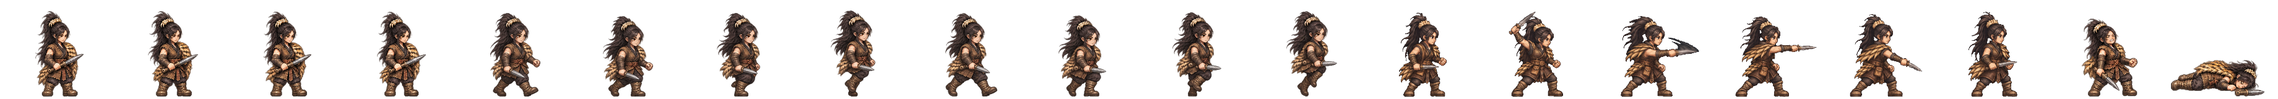
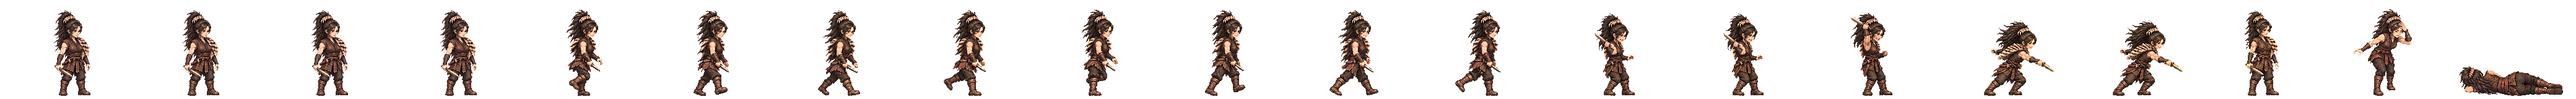
맥 범발 새 전투 띠를 게임에 넣음(서기·걷기·단검 내려베기 여덟 칸·쓰러짐·칼날 엄지로 훑기)
Claude-Session: https://claude.ai/code/session_01TRiuN7s6aDfSnaHxrkctmU

Changed region(s): [[0.4688, 0.125, 1.0, 0.9688], [0.2188, 0.125, 0.4375, 0.9688], [0.0, 0.125, 0.1875, 0.9688]]

diff --git a/src/realm/data/spritePx.ts b/src/realm/data/spritePx.ts
@@ -1,3 +1,3 @@
 /** public/realm/anim-px/manifest.json 의 사본 — tools/sprite-normalize.mjs 가 만든다 (손으로 고치지 말 것). 칸 [가로, 세로] · feet = 발 줄(칸 위에서 y) · bodyPx = 서 있는 몸 키 */
 import { expandManifest } from './sprite-manifest.ts'
-export const SPRITE_PX: Readonly<Record<string, { readonly cell: readonly [number, number]; readonly feet: number; readonly bodyPx: number; readonly kind: 'general' | 'soldier' | 'folk' | 'crowd'; readonly cells: number }>> = expandManifest<{ readonly cell: readonly [number, number]; readonly feet: number; readonly bodyPx: number; readonly kind: 'general' | 'soldier' | 'folk' | 'crowd'; readonly cells: number }>([{"cell":[166,128],"feet":126,"bodyPx":124,"kind":"soldier","cells":20},{"cell":[116,128],"feet":126,"bodyPx":117,"kind":"soldier","cells":20},{"cell":[127,128],"feet":126,"bodyPx":116,"kind":"soldier","cells":20},{"cell":[269,128],"feet":126,"bodyPx":126,"kind":"soldier","cells":20},{"cell":[503,128],"feet":126,"bodyPx":127,"kind":"soldier","cells":20},{"cell":[614,128],"feet":126,"bodyPx":126,"kind":"soldier","cells":20},{"cell":[200,160],"feet":156,"bodyPx":138,"kind":"general","cells":20},{"cell":[208,160],"feet":155,"bodyPx":138,"kind":"general","cells":20},{"cell":[208,160],"feet":154,"bodyPx":138,"kind":"general","cells":20},{"cell":[304,160],"feet":155,"bodyPx":135,"kind":"general","cells":20},{"cell":[224,160],"feet":156,"bodyPx":139,"kind":"general","cells":20},{"cell":[184,160],"feet":156,"bodyPx":138,"kind":"general","cells":20},{"cell":[208,160],"feet":154,"bodyPx":136,"kind":"general","cells":20},{"cell":[240,160],"feet":156,"bodyPx":138,"kind":"general","cells":20},{"cell":[232,160],"feet":156,"bodyPx":138,"kind":"general","cells":20},{"cell":[208,160],"feet":156,"bodyPx":138,"kind":"general","cells":20},{"cell":[192,160],"feet":156,"bodyPx":138,"kind":"general","cells":20},{"cell":[168,160],"feet":156,"bodyPx":124,"kind":"general","cells":20},{"cell":[216,160],"feet":156,"bodyPx":130,"kind":"general","cells":20},{"cell":[200,160],"feet":156,"bodyPx":116,"kind":"general","cells":20},{"cell":[200,160],"feet":156,"bodyPx":135,"kind":"general","cells":20},{"cell":[280,160],"feet":156,"bodyPx":138,"kind":"general","cells":20},{"cell":[232,160],"feet":155,"bodyPx":138,"kind":"general","cells":20},{"cell":[232,160],"feet":156,"bodyPx":134,"kind":"general","cells":20},{"cell":[144,160],"feet":156,"bodyPx":70,"kind":"general","cells":20},{"cell":[208,160],"feet":156,"bodyPx":70,"kind":"general","cells":20},{"cell":[192,160],"feet":156,"bodyPx":70,"kind":"general","cells":20},{"cell":[240,160],"feet":155,"bodyPx":138,"kind":"general","cells":20},{"cell":[160,160],"feet":156,"bodyPx":135,"kind":"general","cells":20},{"cell":[192,160],"feet":156,"bodyPx":128,"kind":"general","cells":20},{"cell":[224,160],"feet":155,"bodyPx":138,"kind":"general","cells":20},{"cell":[232,160],"feet":156,"bodyPx":139,"kind":"general","cells":20},{"cell":[216,160],"feet":156,"bodyPx":138,"kind":"general","cells":20},{"cell":[208,160],"feet":156,"bodyPx":134,"kind":"general","cells":20},{"cell":[176,160],"feet":156,"bodyPx":130,"kind":"general","cells":20},{"cell":[248,160],"feet":156,"bodyPx":138,"kind":"general","cells":20},{"cell":[248,160],"feet":155,"bodyPx":138,"kind":"general","cells":20},{"cell":[192,160],"feet":155,"bodyPx":138,"kind":"general","cells":20},{"cell":[192,160],"feet":156,"bodyPx":124,"kind":"general","cells":20},{"cell":[208,160],"feet":154,"bodyPx":131,"kind":"general","cells":20},{"cell":[256,160],"feet":156,"bodyPx":138,"kind":"general","cells":20},{"cell":[232,160],"feet":156,"bodyPx":73,"kind":"general","cells":20},{"cell":[256,160],"feet":155,"bodyPx":138,"kind":"general","cells":20},{"cell":[264,160],"feet":156,"bodyPx":138,"kind":"general","cells":20},{"cell":[224,160],"feet":156,"bodyPx":138,"kind":"general","cells":20},{"cell":[224,160],"feet":156,"bodyPx":128,"kind":"general","cells":20},{"cell":[176,160],"feet":156,"bodyPx":129,"kind":"general","cells":20},{"cell":[208,160],"feet":154,"bodyPx":139,"kind":"general","cells":20},{"cell":[208,160],"feet":156,"bodyPx":132,"kind":"general","cells":20},{"cell":[216,160],"feet":155,"bodyPx":138,"kind":"general","cells":20},{"cell":[184,160],"feet":156,"bodyPx":122,"kind":"general","cells":20},{"cell":[176,160],"feet":156,"bodyPx":138,"kind":"general","cells":20},{"cell":[280,160],"feet":155,"bodyPx":133,"kind":"general","cells":20},{"cell":[176,160],"feet":156,"bodyPx":70,"kind":"general","cells":20},{"cell":[186,128],"feet":126,"bodyPx":127,"kind":"soldier","cells":20},{"cell":[298,128],"feet":126,"bodyPx":126,"kind":"soldier","cells":20},{"cell":[82,128],"feet":126,"bodyPx":114,"kind":"folk","cells":8},{"cell":[134,128],"feet":126,"bodyPx":119,"kind":"soldier","cells":20},{"cell":[380,128],"feet":126,"bodyPx":124,"kind":"soldier","cells":20},{"cell":[114,128],"feet":126,"bodyPx":115,"kind":"soldier","cells":20},{"cell":[122,128],"feet":126,"bodyPx":114,"kind":"soldier","cells":20},{"cell":[254,128],"feet":126,"bodyPx":128,"kind":"soldier","cells":20},{"cell":[438,128],"feet":126,"bodyPx":126,"kind":"soldier","cells":20},{"cell":[88,128],"feet":126,"bodyPx":113,"kind":"folk","cells":8},{"cell":[100,128],"feet":126,"bodyPx":115,"kind":"folk","cells":8},{"cell":[108,128],"feet":126,"bodyPx":115,"kind":"folk","cells":8},{"cell":[63,128],"feet":126,"bodyPx":113,"kind":"folk","cells":8},{"cell":[69,96],"feet":96,"bodyPx":96,"kind":"crowd","cells":1},{"cell":[54,96],"feet":96,"bodyPx":96,"kind":"crowd","cells":1},{"cell":[47,96],"feet":96,"bodyPx":96,"kind":"crowd","cells":1},{"cell":[49,96],"feet":96,"bodyPx":96,"kind":"crowd","cells":1},{"cell":[57,96],"feet":96,"bodyPx":96,"kind":"crowd","cells":1},{"cell":[55,96],"feet":96,"bodyPx":96,"kind":"crowd","cells":1},{"cell":[45,96],"feet":96,"bodyPx":96,"kind":"crowd","cells":1},{"cell":[53,96],"feet":96,"bodyPx":96,"kind":"crowd","cells":1},{"cell":[64,96],"feet":96,"bodyPx":96,"kind":"crowd","cells":1},{"cell":[184,160],"feet":156,"bodyPx":124,"kind":"general","cells":20},{"cell":[184,160],"feet":156,"bodyPx":134,"kind":"general","cells":20},{"cell":[224,160],"feet":156,"bodyPx":133,"kind":"general","cells":20},{"cell":[192,160],"feet":156,"bodyPx":135,"kind":"general","cells":20},{"cell":[184,160],"feet":156,"bodyPx":137,"kind":"general","cells":20},{"cell":[216,160],"feet":156,"bodyPx":134,"kind":"general","cells":20},{"cell":[216,160],"feet":156,"bodyPx":132,"kind":"general","cells":20},{"cell":[288,160],"feet":156,"bodyPx":138,"kind":"general","cells":20},{"cell":[192,160],"feet":156,"bodyPx":118,"kind":"general","cells":20},{"cell":[208,160],"feet":154,"bodyPx":134,"kind":"general","cells":20},{"cell":[192,160],"feet":157,"bodyPx":139,"kind":"general","cells":20},{"cell":[184,160],"feet":156,"bodyPx":128,"kind":"general","cells":20},{"cell":[240,160],"feet":156,"bodyPx":128,"kind":"general","cells":20},{"cell":[184,160],"feet":156,"bodyPx":132,"kind":"general","cells":20},{"cell":[208,160],"feet":156,"bodyPx":123,"kind":"general","cells":20},{"cell":[208,160],"feet":154,"bodyPx":137,"kind":"general","cells":20},{"cell":[176,160],"feet":156,"bodyPx":116,"kind":"general","cells":20},{"cell":[272,160],"feet":156,"bodyPx":138,"kind":"general","cells":20},{"cell":[176,160],"feet":156,"bodyPx":122,"kind":"general","cells":20},{"cell":[232,160],"feet":156,"bodyPx":127,"kind":"general","cells":20},{"cell":[168,160],"feet":156,"bodyPx":138,"kind":"general","cells":20},{"cell":[176,160],"feet":156,"bodyPx":137,"kind":"general","cells":20},{"cell":[184,160],"feet":156,"bodyPx":133,"kind":"general","cells":20}],[["axe",0],["bandit-chief",1],["bandit-club",2],["boat",3],["bow",4],["crossbow",5],["gen-adogan",6],["gen-alpyeong",7],["gen-ara",8],["gen-areum",8],["gen-aryeong",9],["gen-bakdal",6],["gen-baram",10],["gen-bdanbi",11],["gen-beom",12],["gen-beombal",11],["gen-beomi",13],["gen-bira",14],["gen-biryu",15],["gen-budeul",8],["gen-byeol",16],["gen-daemusin",17],["gen-daeso",18],["gen-dallae2",11],["gen-dalli",11],["gen-damul",19],["gen-danbi",15],["gen-dangung",16],["gen-darae",20],["gen-dokmudeom",7],["gen-duman",21],["gen-eomni",22],["gen-eureum",23],["gen-g-bow",24],["gen-g-spear",25],["gen-g-sword",26],["gen-gaennae",6],["gen-gamsil",27],["gen-gaon",28],["gen-geota",15],["gen-geumbawi",11],["gen-geumha",29],["gen-goeun",15],["gen-gom",30],["gen-gomok",15],["gen-gureum",27],["gen-guryema",16],["gen-gwaeyu",14],["gen-haebi",8],["gen-haedal",6],["gen-haesol",31],["gen-halla",7],["gen-heo",8],["gen-hneoul",11],["gen-hogong",32],["gen-hojin",15],["gen-horselord",33],["gen-hwalmi",34],["gen-hyeokgeose",16],["gen-hyeopbo",6],["gen-irang",15],["gen-jibaekho",35],["gen-jinha",36],["gen-jita",37],["gen-jumong",38],["gen-keundol",7],["gen-maehwa",39],["gen-maenun",16],["gen-malgalgi",40],["gen-mari",13],["gen-maro",35],["gen-maryeo",15],["gen-mdallae",31],["gen-mir",6],["gen-mount",41],["gen-mulbeom",42],["gen-mulsae",32],["gen-musoe",32],["gen-noeul",8],["gen-nuri",43],["gen-ocheongan",44],["gen-odi",8],["gen-odogan",6],["gen-ogan",16],["gen-oi",45],["gen-olddaeso",23],["gen-onjo",46],["gen-pidogan",15],["gen-sagong",47],["gen-sdallae",6],["gen-sincheongan",32],["gen-singwigan",32],["gen-sinneoul",8],["gen-sobeol",22],["gen-soebi",6],["gen-soebo",48],["gen-soenun",35],["gen-sogeumbi",49],["gen-songbi",44],["gen-songyang",50],["gen-sori",51],["gen-soseono",52],["gen-suro",16],["gen-tahae",6],["gen-tneoul",8],["gen-w-bow",24],["gen-w-spear",53],["gen-waechief",15],["gen-wan",32],["gen-yeodogan",15],["gen-yucheongan",15],["gen-yusugan",35],["horse",54],["marine",55],["migrant",56],["militia",57],["pike",58],["pirate-captain",59],["pirate-sword",60],["shield",61],["spear",62],["villager-builder",63],["villager-farmer",64],["villager-porter",65],["villager-woman",66],["crowd-b1",67],["crowd-b2",68],["crowd-b3",69],["crowd-b4",70],["crowd-b5",71],["crowd-b6",72],["crowd-f1",67],["crowd-f2",72],["crowd-f3",73],["crowd-f4",74],["crowd-f5",67],["crowd-f6",75],["gen-dalbit",15],["gen-base-g-07-drunk-warrior",16],["gen-base-g-40-anya-adan",15],["gen-base-w-13-young-archer",8],["gen-base-g-03-sea-trader",13],["gen-base-w-10-pirate-captain",47],["gen-base-w-64-miri-dallae",47],["gen-base-g-41-goja-bau",13],["gen-base-g-42-dokro-garam",43],["gen-base-g-09-farmer-conscript",32],["gen-base-w-02-goguryeo-lady",32],["gen-base-w-17-mahan-pearl-diver",8],["gen-base-g-17-saro-isageum",48],["gen-base-g-18-daegaya-king",76],["gen-base-g-35-dabeol-dalgu",15],["gen-base-g-19-sabeol-veteran",32],["gen-base-w-23-usisan-whale-queen",8],["gen-base-g-36-gammun-gamdol",44],["gen-base-g-20-samul-sea-lord",40],["gen-base-g-37-eumjeup-jeup",11],["gen-base-g-38-chopal-palmae",16],["gen-base-w-75-daegaya-soemoe",16],["gen-base-g-45-dabeol-deulgae",11],["gen-base-g-04-jinhan-giant",15],["gen-base-g-08-veteran",15],["gen-base-w-18-jinhan-salt-widow",8],["gen-base-w-12-court-dancer",77],["gen-base-w-83-gyeonji-beodeul",78],["gen-base-w-05-baekje-queen",79],["gen-base-w-21-baekje-court-dancer",11],["gen-base-g-01-master-smith",80],["gen-base-g-93-jomun-solgae",34],["gen-base-g-57-bihwa-neup",13],["gen-base-w-72-eumjeup-beol",8],["gen-base-w-102-garak-dana",47],["gen-base-g-68-baekje-onnuri",15],["gen-base-w-27-mokji-jinha",6],["gen-base-g-22-ungcheon-gomnae",6],["gen-base-g-23-sangdang-soedal",15],["gen-base-g-24-wansan-onsan",6],["gen-base-g-25-balla-keunmoe",32],["gen-base-g-61-heomcheuk-bawi",32],["gen-base-g-88-wander-soeul",44],["gen-base-w-14-feast-spy",6],["gen-base-g-12-silla-youth",81],["gen-base-w-08-mahan-warrior",8],["gen-base-g-62-beonye-hanul",13],["gen-base-g-63-heomcheuk-beogeum",15],["gen-base-g-84-wander-seoneul",15],["gen-base-w-50-siljik-mulga",32],["gen-base-g-46-uga-nureongso",32],["gen-base-w-80-usan-gangchi",13],["gen-base-g-47-guga-sanyanggae",32],["gen-base-w-76-gampyeong-baetsagong",8],["gen-base-g-05-mahan-chieftain",82],["gen-base-g-58-usan-uhae",15],["gen-base-g-27-maek-maekdol",15],["gen-base-w-53-hwanna-gabi",47],["gen-base-w-29-golpo-janmul",35],["gen-base-g-53-baekje-haeru",6],["gen-base-w-71-yeonna-neoul",13],["gen-base-w-79-yangmaek-solmae",32],["gen-base-w-34-chopal-deulme",8],["gen-base-g-44-maga-malgup",83],["gen-base-w-31-dabeol-dalbit",47],["gen-base-g-51-biryuna-mulgyeol",44],["gen-base-g-48-gwanna-musoe",15],["gen-base-g-32-uga-sodu",14],["gen-base-g-49-goguryeo-sona",84],["gen-base-g-30-gwanna-soemoe",44],["gen-base-g-52-tamna-oreum",11],["gen-base-g-29-yeonna-myeongsol",38],["gen-base-w-56-dongokjeo-sogeum",85],["gen-base-g-54-mokji-mahan",14],["gen-base-g-33-jeoga-metdol",16],["gen-base-w-36-baekje-maena",8],["gen-base-w-38-sangdang-bulmae",6],["gen-base-w-39-gosaburi-galmae",86],["gen-base-w-40-mujin-munui",48],["gen-base-w-41-hwanna-beodeul",87],["gen-base-w-43-uga-nuri",40],["gen-base-w-45-tamna-oreumbi",11],["gen-base-g-60-golbeol-golgae",11],["gen-base-g-61-apdok-ap",32],["gen-base-g-62-gammun-gamnamu",6],["gen-base-g-63-chopal-yeoul",35],["gen-base-g-64-michuhol-sogeumkkun",13],["gen-base-g-65-sangdang-soemangchi",44],["gen-base-g-66-geonma-malbalgup",88],["gen-base-g-67-gosaburi-buri",89],["gen-base-g-68-mujin-bitgoeul",11],["gen-base-g-69-goryong-yong",44],["gen-base-g-70-siljik-pado",13],["gen-base-w-81-byeokjin-byeolbit",14],["gen-base-w-46-geonma-maru",35],["gen-base-w-48-mujin-mudeung",13],["gen-base-g-26-gampyeong-gaetbeol",14],["gen-base-g-60-eupcha-hangyeol",90],["gen-base-g-15-shaman-man",32],["gen-base-g-85-wander-ure",35],["gen-base-g-43-hwanna-amnok",15],["gen-base-g-50-bullae-gwaha",79],["gen-base-g-55-saro-bakdal",15],["gen-base-g-56-haseulla-gwahama",6],["gen-base-w-06-buyeo-huntress",91],["gen-base-w-22-dongye-tiger-huntress",8],["gen-base-w-25-bihwa-priestess",32],["gen-base-w-24-apdok-queen",11],["gen-base-w-61-iseo-sinae",15],["gen-base-w-26-iseo-tomboy-general",8],["gen-base-g-59-yangmaek-maekson",92],["gen-aw1-haebi",44],["gen-aw1-soseono",93],["gen-aw1-gamsil",11],["gen-aw1-mir",51],["gen-aw1-dangung",6],["gen-aw1-ara",44],["gen-aw1-jumong",94],["gen-aw1-onjo",95],["gen-aw1-base-w-83-gyeonji-beodeul",16],["gen-aw1-heo",43],["gen-aw1-base-g-38-chopal-palmae",6],["gen-aw1-base-w-25-bihwa-priestess",77],["gen-aw1-sori",96],["gen-aw1-gomok",6],["gen-aw1-irang",16],["gen-aw1-budeul",96],["gen-aw1-gom",13],["gen-aw1-sdallae",6],["gen-aw1-base-w-13-young-archer",6],["gen-aw1-base-w-36-baekje-maena",97],["gen-aw1-base-g-09-farmer-conscript",43],["gen-aw1-base-w-02-goguryeo-lady",98],["gen-aw1-haedal",11],["gen-aw1-hogong",6],["gen-aw1-maehwa",51],["gen-aw1-base-w-06-buyeo-huntress",14],["gen-aw1-base-w-08-mahan-warrior",44],["gen-aw1-base-w-29-golpo-janmul",44],["gen-aw1-base-w-31-dabeol-dalbit",16],["gen-aw1-base-w-38-sangdang-bulmae",96],["gen-aw1-bira",32],["gen-aw1-base-w-53-hwanna-gabi",96],["gen-aw1-base-w-56-dongokjeo-sogeum",51],["gen-aw1-base-w-72-eumjeup-beol",16],["gen-aw1-bdanbi",96],["gen-aw1-beom",11],["gen-aw1-beombal",11],["gen-aw1-byeol",16],["gen-aw1-dalli",51],["gen-aw1-malgalgi",35],["gen-aw1-sincheongan",32]])
+export const SPRITE_PX: Readonly<Record<string, { readonly cell: readonly [number, number]; readonly feet: number; readonly bodyPx: number; readonly kind: 'general' | 'soldier' | 'folk' | 'crowd'; readonly cells: number }>> = expandManifest<{ readonly cell: readonly [number, number]; readonly feet: number; readonly bodyPx: number; readonly kind: 'general' | 'soldier' | 'folk' | 'crowd'; readonly cells: number }>([{"cell":[166,128],"feet":126,"bodyPx":124,"kind":"soldier","cells":20},{"cell":[116,128],"feet":126,"bodyPx":117,"kind":"soldier","cells":20},{"cell":[127,128],"feet":126,"bodyPx":116,"kind":"soldier","cells":20},{"cell":[269,128],"feet":126,"bodyPx":126,"kind":"soldier","cells":20},{"cell":[503,128],"feet":126,"bodyPx":127,"kind":"soldier","cells":20},{"cell":[614,128],"feet":126,"bodyPx":126,"kind":"soldier","cells":20},{"cell":[200,160],"feet":156,"bodyPx":138,"kind":"general","cells":20},{"cell":[208,160],"feet":155,"bodyPx":138,"kind":"general","cells":20},{"cell":[208,160],"feet":154,"bodyPx":138,"kind":"general","cells":20},{"cell":[304,160],"feet":155,"bodyPx":135,"kind":"general","cells":20},{"cell":[224,160],"feet":156,"bodyPx":139,"kind":"general","cells":20},{"cell":[184,160],"feet":156,"bodyPx":138,"kind":"general","cells":20},{"cell":[208,160],"feet":154,"bodyPx":136,"kind":"general","cells":20},{"cell":[240,160],"feet":156,"bodyPx":138,"kind":"general","cells":20},{"cell":[232,160],"feet":156,"bodyPx":138,"kind":"general","cells":20},{"cell":[208,160],"feet":156,"bodyPx":138,"kind":"general","cells":20},{"cell":[192,160],"feet":156,"bodyPx":138,"kind":"general","cells":20},{"cell":[168,160],"feet":156,"bodyPx":124,"kind":"general","cells":20},{"cell":[216,160],"feet":156,"bodyPx":130,"kind":"general","cells":20},{"cell":[200,160],"feet":156,"bodyPx":116,"kind":"general","cells":20},{"cell":[200,160],"feet":156,"bodyPx":135,"kind":"general","cells":20},{"cell":[280,160],"feet":156,"bodyPx":138,"kind":"general","cells":20},{"cell":[232,160],"feet":155,"bodyPx":138,"kind":"general","cells":20},{"cell":[232,160],"feet":156,"bodyPx":134,"kind":"general","cells":20},{"cell":[144,160],"feet":156,"bodyPx":70,"kind":"general","cells":20},{"cell":[208,160],"feet":156,"bodyPx":70,"kind":"general","cells":20},{"cell":[192,160],"feet":156,"bodyPx":70,"kind":"general","cells":20},{"cell":[240,160],"feet":155,"bodyPx":138,"kind":"general","cells":20},{"cell":[160,160],"feet":156,"bodyPx":135,"kind":"general","cells":20},{"cell":[192,160],"feet":156,"bodyPx":128,"kind":"general","cells":20},{"cell":[224,160],"feet":155,"bodyPx":138,"kind":"general","cells":20},{"cell":[232,160],"feet":156,"bodyPx":139,"kind":"general","cells":20},{"cell":[216,160],"feet":156,"bodyPx":138,"kind":"general","cells":20},{"cell":[208,160],"feet":156,"bodyPx":134,"kind":"general","cells":20},{"cell":[176,160],"feet":156,"bodyPx":130,"kind":"general","cells":20},{"cell":[248,160],"feet":156,"bodyPx":138,"kind":"general","cells":20},{"cell":[248,160],"feet":155,"bodyPx":138,"kind":"general","cells":20},{"cell":[192,160],"feet":155,"bodyPx":138,"kind":"general","cells":20},{"cell":[192,160],"feet":156,"bodyPx":124,"kind":"general","cells":20},{"cell":[208,160],"feet":154,"bodyPx":131,"kind":"general","cells":20},{"cell":[256,160],"feet":156,"bodyPx":138,"kind":"general","cells":20},{"cell":[232,160],"feet":156,"bodyPx":73,"kind":"general","cells":20},{"cell":[256,160],"feet":155,"bodyPx":138,"kind":"general","cells":20},{"cell":[264,160],"feet":156,"bodyPx":138,"kind":"general","cells":20},{"cell":[224,160],"feet":156,"bodyPx":138,"kind":"general","cells":20},{"cell":[224,160],"feet":156,"bodyPx":128,"kind":"general","cells":20},{"cell":[176,160],"feet":156,"bodyPx":129,"kind":"general","cells":20},{"cell":[208,160],"feet":154,"bodyPx":139,"kind":"general","cells":20},{"cell":[208,160],"feet":156,"bodyPx":132,"kind":"general","cells":20},{"cell":[216,160],"feet":155,"bodyPx":138,"kind":"general","cells":20},{"cell":[184,160],"feet":156,"bodyPx":122,"kind":"general","cells":20},{"cell":[176,160],"feet":156,"bodyPx":138,"kind":"general","cells":20},{"cell":[280,160],"feet":155,"bodyPx":133,"kind":"general","cells":20},{"cell":[176,160],"feet":156,"bodyPx":70,"kind":"general","cells":20},{"cell":[186,128],"feet":126,"bodyPx":127,"kind":"soldier","cells":20},{"cell":[298,128],"feet":126,"bodyPx":126,"kind":"soldier","cells":20},{"cell":[82,128],"feet":126,"bodyPx":114,"kind":"folk","cells":8},{"cell":[134,128],"feet":126,"bodyPx":119,"kind":"soldier","cells":20},{"cell":[380,128],"feet":126,"bodyPx":124,"kind":"soldier","cells":20},{"cell":[114,128],"feet":126,"bodyPx":115,"kind":"soldier","cells":20},{"cell":[122,128],"feet":126,"bodyPx":114,"kind":"soldier","cells":20},{"cell":[254,128],"feet":126,"bodyPx":128,"kind":"soldier","cells":20},{"cell":[438,128],"feet":126,"bodyPx":126,"kind":"soldier","cells":20},{"cell":[88,128],"feet":126,"bodyPx":113,"kind":"folk","cells":8},{"cell":[100,128],"feet":126,"bodyPx":115,"kind":"folk","cells":8},{"cell":[108,128],"feet":126,"bodyPx":115,"kind":"folk","cells":8},{"cell":[63,128],"feet":126,"bodyPx":113,"kind":"folk","cells":8},{"cell":[69,96],"feet":96,"bodyPx":96,"kind":"crowd","cells":1},{"cell":[54,96],"feet":96,"bodyPx":96,"kind":"crowd","cells":1},{"cell":[47,96],"feet":96,"bodyPx":96,"kind":"crowd","cells":1},{"cell":[49,96],"feet":96,"bodyPx":96,"kind":"crowd","cells":1},{"cell":[57,96],"feet":96,"bodyPx":96,"kind":"crowd","cells":1},{"cell":[55,96],"feet":96,"bodyPx":96,"kind":"crowd","cells":1},{"cell":[45,96],"feet":96,"bodyPx":96,"kind":"crowd","cells":1},{"cell":[53,96],"feet":96,"bodyPx":96,"kind":"crowd","cells":1},{"cell":[64,96],"feet":96,"bodyPx":96,"kind":"crowd","cells":1},{"cell":[184,160],"feet":156,"bodyPx":124,"kind":"general","cells":20},{"cell":[184,160],"feet":156,"bodyPx":134,"kind":"general","cells":20},{"cell":[224,160],"feet":156,"bodyPx":133,"kind":"general","cells":20},{"cell":[192,160],"feet":156,"bodyPx":135,"kind":"general","cells":20},{"cell":[184,160],"feet":156,"bodyPx":137,"kind":"general","cells":20},{"cell":[216,160],"feet":156,"bodyPx":134,"kind":"general","cells":20},{"cell":[216,160],"feet":156,"bodyPx":132,"kind":"general","cells":20},{"cell":[288,160],"feet":156,"bodyPx":138,"kind":"general","cells":20},{"cell":[192,160],"feet":156,"bodyPx":118,"kind":"general","cells":20},{"cell":[208,160],"feet":154,"bodyPx":134,"kind":"general","cells":20},{"cell":[192,160],"feet":157,"bodyPx":139,"kind":"general","cells":20},{"cell":[184,160],"feet":156,"bodyPx":128,"kind":"general","cells":20},{"cell":[240,160],"feet":156,"bodyPx":128,"kind":"general","cells":20},{"cell":[184,160],"feet":156,"bodyPx":132,"kind":"general","cells":20},{"cell":[208,160],"feet":156,"bodyPx":123,"kind":"general","cells":20},{"cell":[208,160],"feet":154,"bodyPx":137,"kind":"general","cells":20},{"cell":[176,160],"feet":156,"bodyPx":116,"kind":"general","cells":20},{"cell":[272,160],"feet":156,"bodyPx":138,"kind":"general","cells":20},{"cell":[176,160],"feet":156,"bodyPx":122,"kind":"general","cells":20},{"cell":[232,160],"feet":156,"bodyPx":127,"kind":"general","cells":20},{"cell":[168,160],"feet":156,"bodyPx":138,"kind":"general","cells":20},{"cell":[176,160],"feet":156,"bodyPx":137,"kind":"general","cells":20},{"cell":[184,160],"feet":156,"bodyPx":133,"kind":"general","cells":20}],[["axe",0],["bandit-chief",1],["bandit-club",2],["boat",3],["bow",4],["crossbow",5],["gen-adogan",6],["gen-alpyeong",7],["gen-ara",8],["gen-areum",8],["gen-aryeong",9],["gen-bakdal",6],["gen-baram",10],["gen-bdanbi",11],["gen-beom",12],["gen-beombal",8],["gen-beomi",13],["gen-bira",14],["gen-biryu",15],["gen-budeul",8],["gen-byeol",16],["gen-daemusin",17],["gen-daeso",18],["gen-dallae2",11],["gen-dalli",11],["gen-damul",19],["gen-danbi",15],["gen-dangung",16],["gen-darae",20],["gen-dokmudeom",7],["gen-duman",21],["gen-eomni",22],["gen-eureum",23],["gen-g-bow",24],["gen-g-spear",25],["gen-g-sword",26],["gen-gaennae",6],["gen-gamsil",27],["gen-gaon",28],["gen-geota",15],["gen-geumbawi",11],["gen-geumha",29],["gen-goeun",15],["gen-gom",30],["gen-gomok",15],["gen-gureum",27],["gen-guryema",16],["gen-gwaeyu",14],["gen-haebi",8],["gen-haedal",6],["gen-haesol",31],["gen-halla",7],["gen-heo",8],["gen-hneoul",11],["gen-hogong",32],["gen-hojin",15],["gen-horselord",33],["gen-hwalmi",34],["gen-hyeokgeose",16],["gen-hyeopbo",6],["gen-irang",15],["gen-jibaekho",35],["gen-jinha",36],["gen-jita",37],["gen-jumong",38],["gen-keundol",7],["gen-maehwa",39],["gen-maenun",16],["gen-malgalgi",40],["gen-mari",13],["gen-maro",35],["gen-maryeo",15],["gen-mdallae",31],["gen-mir",6],["gen-mount",41],["gen-mulbeom",42],["gen-mulsae",32],["gen-musoe",32],["gen-noeul",8],["gen-nuri",43],["gen-ocheongan",44],["gen-odi",8],["gen-odogan",6],["gen-ogan",16],["gen-oi",45],["gen-olddaeso",23],["gen-onjo",46],["gen-pidogan",15],["gen-sagong",47],["gen-sdallae",6],["gen-sincheongan",32],["gen-singwigan",32],["gen-sinneoul",8],["gen-sobeol",22],["gen-soebi",6],["gen-soebo",48],["gen-soenun",35],["gen-sogeumbi",49],["gen-songbi",44],["gen-songyang",50],["gen-sori",51],["gen-soseono",52],["gen-suro",16],["gen-tahae",6],["gen-tneoul",8],["gen-w-bow",24],["gen-w-spear",53],["gen-waechief",15],["gen-wan",32],["gen-yeodogan",15],["gen-yucheongan",15],["gen-yusugan",35],["horse",54],["marine",55],["migrant",56],["militia",57],["pike",58],["pirate-captain",59],["pirate-sword",60],["shield",61],["spear",62],["villager-builder",63],["villager-farmer",64],["villager-porter",65],["villager-woman",66],["crowd-b1",67],["crowd-b2",68],["crowd-b3",69],["crowd-b4",70],["crowd-b5",71],["crowd-b6",72],["crowd-f1",67],["crowd-f2",72],["crowd-f3",73],["crowd-f4",74],["crowd-f5",67],["crowd-f6",75],["gen-dalbit",15],["gen-base-g-07-drunk-warrior",16],["gen-base-g-40-anya-adan",15],["gen-base-w-13-young-archer",8],["gen-base-g-03-sea-trader",13],["gen-base-w-10-pirate-captain",47],["gen-base-w-64-miri-dallae",47],["gen-base-g-41-goja-bau",13],["gen-base-g-42-dokro-garam",43],["gen-base-g-09-farmer-conscript",32],["gen-base-w-02-goguryeo-lady",32],["gen-base-w-17-mahan-pearl-diver",8],["gen-base-g-17-saro-isageum",48],["gen-base-g-18-daegaya-king",76],["gen-base-g-35-dabeol-dalgu",15],["gen-base-g-19-sabeol-veteran",32],["gen-base-w-23-usisan-whale-queen",8],["gen-base-g-36-gammun-gamdol",44],["gen-base-g-20-samul-sea-lord",40],["gen-base-g-37-eumjeup-jeup",11],["gen-base-g-38-chopal-palmae",16],["gen-base-w-75-daegaya-soemoe",16],["gen-base-g-45-dabeol-deulgae",11],["gen-base-g-04-jinhan-giant",15],["gen-base-g-08-veteran",15],["gen-base-w-18-jinhan-salt-widow",8],["gen-base-w-12-court-dancer",77],["gen-base-w-83-gyeonji-beodeul",78],["gen-base-w-05-baekje-queen",79],["gen-base-w-21-baekje-court-dancer",11],["gen-base-g-01-master-smith",80],["gen-base-g-93-jomun-solgae",34],["gen-base-g-57-bihwa-neup",13],["gen-base-w-72-eumjeup-beol",8],["gen-base-w-102-garak-dana",47],["gen-base-g-68-baekje-onnuri",15],["gen-base-w-27-mokji-jinha",6],["gen-base-g-22-ungcheon-gomnae",6],["gen-base-g-23-sangdang-soedal",15],["gen-base-g-24-wansan-onsan",6],["gen-base-g-25-balla-keunmoe",32],["gen-base-g-61-heomcheuk-bawi",32],["gen-base-g-88-wander-soeul",44],["gen-base-w-14-feast-spy",6],["gen-base-g-12-silla-youth",81],["gen-base-w-08-mahan-warrior",8],["gen-base-g-62-beonye-hanul",13],["gen-base-g-63-heomcheuk-beogeum",15],["gen-base-g-84-wander-seoneul",15],["gen-base-w-50-siljik-mulga",32],["gen-base-g-46-uga-nureongso",32],["gen-base-w-80-usan-gangchi",13],["gen-base-g-47-guga-sanyanggae",32],["gen-base-w-76-gampyeong-baetsagong",8],["gen-base-g-05-mahan-chieftain",82],["gen-base-g-58-usan-uhae",15],["gen-base-g-27-maek-maekdol",15],["gen-base-w-53-hwanna-gabi",47],["gen-base-w-29-golpo-janmul",35],["gen-base-g-53-baekje-haeru",6],["gen-base-w-71-yeonna-neoul",13],["gen-base-w-79-yangmaek-solmae",32],["gen-base-w-34-chopal-deulme",8],["gen-base-g-44-maga-malgup",83],["gen-base-w-31-dabeol-dalbit",47],["gen-base-g-51-biryuna-mulgyeol",44],["gen-base-g-48-gwanna-musoe",15],["gen-base-g-32-uga-sodu",14],["gen-base-g-49-goguryeo-sona",84],["gen-base-g-30-gwanna-soemoe",44],["gen-base-g-52-tamna-oreum",11],["gen-base-g-29-yeonna-myeongsol",38],["gen-base-w-56-dongokjeo-sogeum",85],["gen-base-g-54-mokji-mahan",14],["gen-base-g-33-jeoga-metdol",16],["gen-base-w-36-baekje-maena",8],["gen-base-w-38-sangdang-bulmae",6],["gen-base-w-39-gosaburi-galmae",86],["gen-base-w-40-mujin-munui",48],["gen-base-w-41-hwanna-beodeul",87],["gen-base-w-43-uga-nuri",40],["gen-base-w-45-tamna-oreumbi",11],["gen-base-g-60-golbeol-golgae",11],["gen-base-g-61-apdok-ap",32],["gen-base-g-62-gammun-gamnamu",6],["gen-base-g-63-chopal-yeoul",35],["gen-base-g-64-michuhol-sogeumkkun",13],["gen-base-g-65-sangdang-soemangchi",44],["gen-base-g-66-geonma-malbalgup",88],["gen-base-g-67-gosaburi-buri",89],["gen-base-g-68-mujin-bitgoeul",11],["gen-base-g-69-goryong-yong",44],["gen-base-g-70-siljik-pado",13],["gen-base-w-81-byeokjin-byeolbit",14],["gen-base-w-46-geonma-maru",35],["gen-base-w-48-mujin-mudeung",13],["gen-base-g-26-gampyeong-gaetbeol",14],["gen-base-g-60-eupcha-hangyeol",90],["gen-base-g-15-shaman-man",32],["gen-base-g-85-wander-ure",35],["gen-base-g-43-hwanna-amnok",15],["gen-base-g-50-bullae-gwaha",79],["gen-base-g-55-saro-bakdal",15],["gen-base-g-56-haseulla-gwahama",6],["gen-base-w-06-buyeo-huntress",91],["gen-base-w-22-dongye-tiger-huntress",8],["gen-base-w-25-bihwa-priestess",32],["gen-base-w-24-apdok-queen",11],["gen-base-w-61-iseo-sinae",15],["gen-base-w-26-iseo-tomboy-general",8],["gen-base-g-59-yangmaek-maekson",92],["gen-aw1-haebi",44],["gen-aw1-soseono",93],["gen-aw1-gamsil",11],["gen-aw1-mir",51],["gen-aw1-dangung",6],["gen-aw1-ara",44],["gen-aw1-jumong",94],["gen-aw1-onjo",95],["gen-aw1-base-w-83-gyeonji-beodeul",16],["gen-aw1-heo",43],["gen-aw1-base-g-38-chopal-palmae",6],["gen-aw1-base-w-25-bihwa-priestess",77],["gen-aw1-sori",96],["gen-aw1-gomok",6],["gen-aw1-irang",16],["gen-aw1-budeul",96],["gen-aw1-gom",13],["gen-aw1-sdallae",6],["gen-aw1-base-w-13-young-archer",6],["gen-aw1-base-w-36-baekje-maena",97],["gen-aw1-base-g-09-farmer-conscript",43],["gen-aw1-base-w-02-goguryeo-lady",98],["gen-aw1-haedal",11],["gen-aw1-hogong",6],["gen-aw1-maehwa",51],["gen-aw1-base-w-06-buyeo-huntress",14],["gen-aw1-base-w-08-mahan-warrior",44],["gen-aw1-base-w-29-golpo-janmul",44],["gen-aw1-base-w-31-dabeol-dalbit",16],["gen-aw1-base-w-38-sangdang-bulmae",96],["gen-aw1-bira",32],["gen-aw1-base-w-53-hwanna-gabi",96],["gen-aw1-base-w-56-dongokjeo-sogeum",51],["gen-aw1-base-w-72-eumjeup-beol",16],["gen-aw1-bdanbi",96],["gen-aw1-beom",11],["gen-aw1-beombal",11],["gen-aw1-byeol",16],["gen-aw1-dalli",51],["gen-aw1-malgalgi",35],["gen-aw1-sincheongan",32]])

diff --git a/src/duel/view.ts b/src/duel/view.ts
@@ -100,7 +100,7 @@ const crowdFront = [1, 2, 3, 4, 5, 6].map((i) => img(`realm/duel/crowd/b${i}.png
 const crowdReady = (set: HTMLImageElement[]): boolean => set.every((im) => im.complete && im.naturalWidth > 0)
 const pxMode = cfg.px !== false && params.get('px') !== '0'
 /** 겨루기 전용 옛 띠(duel/sprites) 대신 열전과 같은 도트 띠(anim-px)를 쓰는 장수 — 두 판에서 같은 모습 · 서기 계획·쓰러지는 칸도 같다 (11-23 범 · 매화 · 달빛 · 11-24 해비 · 아룸) */
-const PX_DUEL: ReadonlySet<string> = new Set(['beom', 'maehwa', 'base-w-31-dabeol-dalbit', 'haebi', 'areum', 'base-w-13-young-archer', 'base-w-10-pirate-captain', 'base-w-17-mahan-pearl-diver', 'base-w-06-buyeo-huntress', 'base-w-64-miri-dallae', 'ara', 'base-w-22-dongye-tiger-huntress', 'noeul', 'sagong', 'sinneoul', 'heo', 'base-w-08-mahan-warrior', 'base-w-23-usisan-whale-queen', 'base-w-26-iseo-tomboy-general', 'base-w-72-eumjeup-beol', 'tneoul', 'odi', 'base-w-76-gampyeong-baetsagong', 'base-w-34-chopal-deulme', 'base-w-102-garak-dana', 'base-w-36-baekje-maena', 'base-w-56-dongokjeo-sogeum', 'budeul', 'base-w-53-hwanna-gabi', 'base-w-18-jinhan-salt-widow'])
+const PX_DUEL: ReadonlySet<string> = new Set(['beom', 'maehwa', 'base-w-31-dabeol-dalbit', 'haebi', 'areum', 'base-w-13-young-archer', 'base-w-10-pirate-captain', 'base-w-17-mahan-pearl-diver', 'base-w-06-buyeo-huntress', 'base-w-64-miri-dallae', 'ara', 'base-w-22-dongye-tiger-huntress', 'noeul', 'sagong', 'sinneoul', 'heo', 'base-w-08-mahan-warrior', 'base-w-23-usisan-whale-queen', 'base-w-26-iseo-tomboy-general', 'base-w-72-eumjeup-beol', 'tneoul', 'odi', 'base-w-76-gampyeong-baetsagong', 'base-w-34-chopal-deulme', 'base-w-102-garak-dana', 'base-w-36-baekje-maena', 'base-w-56-dongokjeo-sogeum', 'budeul', 'base-w-53-hwanna-gabi', 'base-w-18-jinhan-salt-widow', 'beombal'])
 /** 띠 그림 — 기본은 anim-px(도트 규격) 먼저, 없으면 옛 띠로 (img 의 onerror 가 갈아 끼운다) */
 const strip = (s: string): HTMLImageElement => pxMode
   ? DUEL_ATLASES[s] !== undefined && !PX_DUEL.has(s) ? img(`realm/duel/sprites/gen-${s}.png`, `realm/anim-px/gen-${s}.png`)

diff --git a/src/tune/params.ts b/src/tune/params.ts
@@ -1449,6 +1449,7 @@ export const HAEBI_IDLE = {
     budeul: { cells: 34, base: [0, 1], hold: 2.4, fall: [18, 20, 21, 19], quirk: [22, 23, 24, 25], quirkTimes: [.3, .32, .4, .28], attack: { cells: [26, 27, 28, 29, 30, 31, 32, 33], times: [.09, .08, .11, .05, .15, .07, .08, .12], hit: 4 }, xGeom: { h: 224, root: 92, foot: 216 } },
     'base-w-53-hwanna-gabi': { cells: 34, base: [0, 1], hold: 2.4, fall: [18, 20, 21, 19], quirk: [22, 23, 24, 25], quirkTimes: [.3, .32, .4, .28], attack: { cells: [26, 27, 28, 29, 30, 31, 32, 33], times: [.09, .08, .11, .05, .15, .07, .08, .12], hit: 4 }, xGeom: { h: 224, root: 92, foot: 216 } },
     'base-w-18-jinhan-salt-widow': { cells: 34, base: [0, 1], hold: 2.4, fall: [18, 20, 21, 19], quirk: [22, 23, 24, 25], quirkTimes: [.3, .32, .4, .28], attack: { cells: [26, 27, 28, 29, 30, 31, 32, 33], times: [.09, .08, .11, .05, .15, .07, .08, .12], hit: 4 }, xGeom: { h: 224, root: 92, foot: 216 } },
+    beombal: { cells: 34, base: [0, 1], hold: 2.4, fall: [18, 20, 21, 19], quirk: [22, 23, 24, 25], quirkTimes: [.3, .32, .4, .28], attack: { cells: [26, 27, 28, 29, 30, 31, 32, 33], times: [.09, .08, .11, .05, .15, .07, .08, .12], hit: 4 }, xGeom: { h: 224, root: 92, foot: 216 } },
   },
 } as const
 export const HAEBI_ANIM = {
